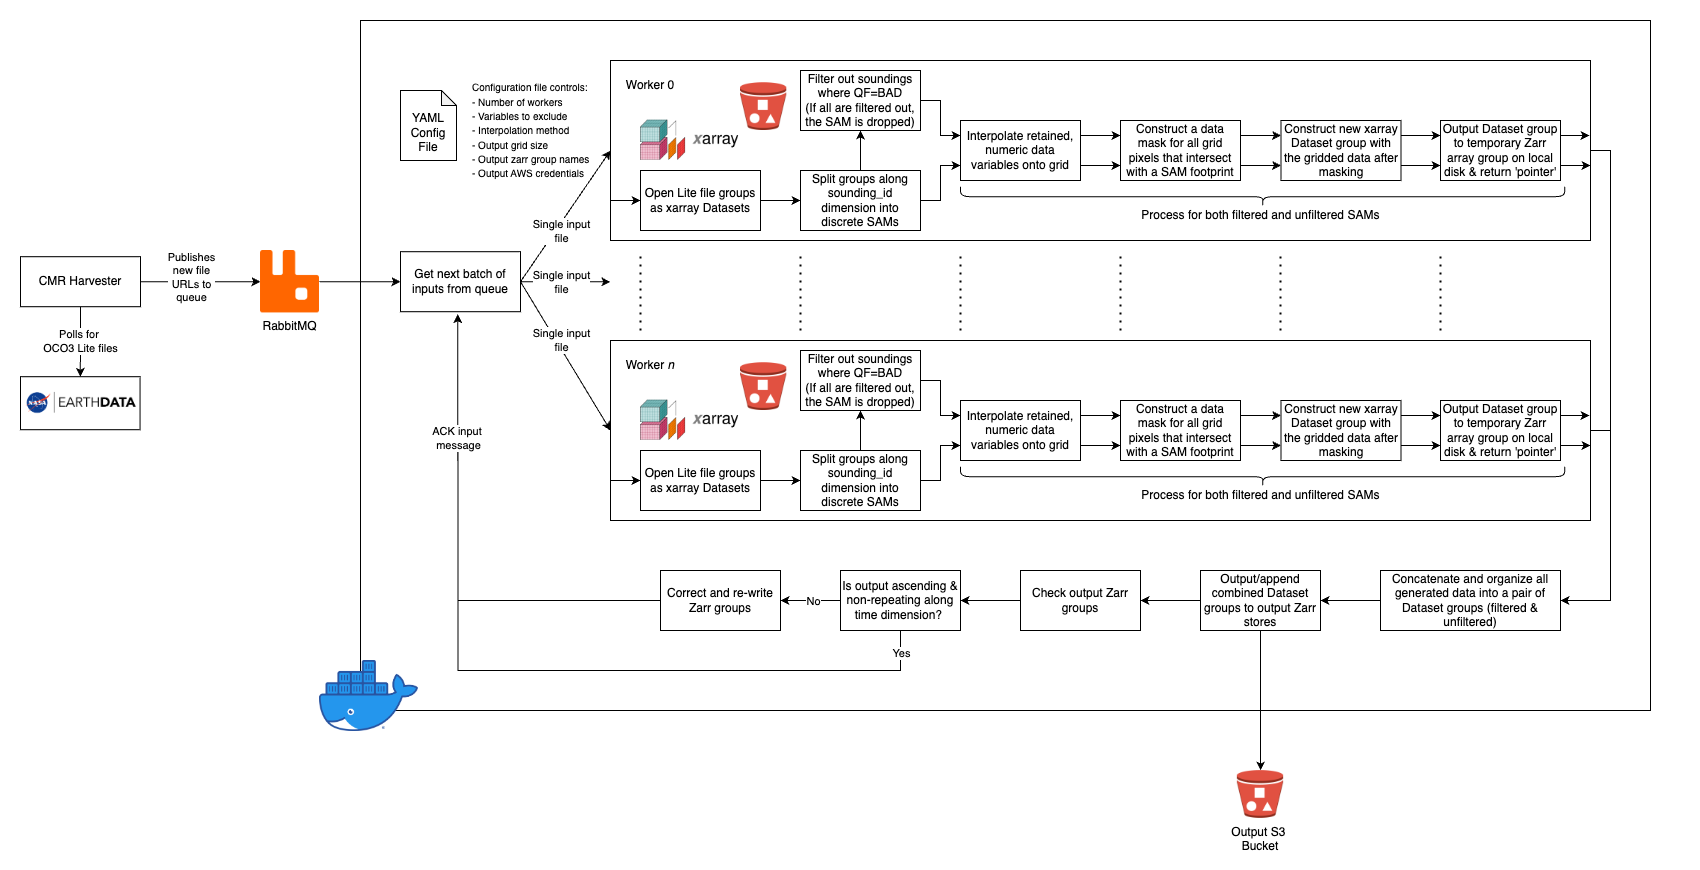
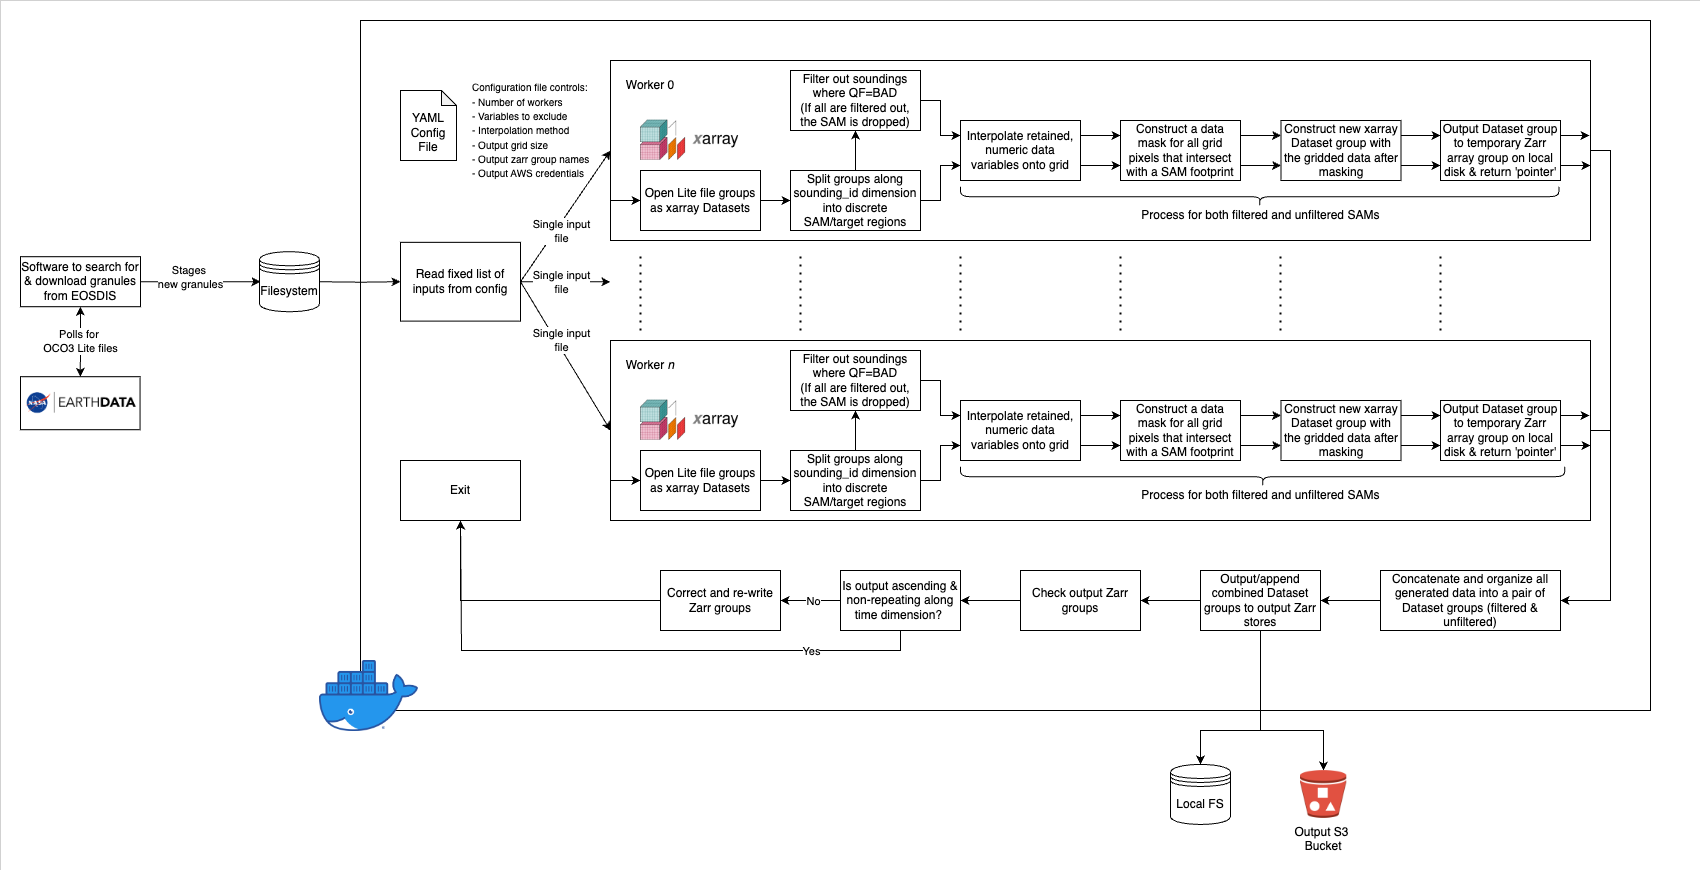
Updated docs

diff --git a/tools/deploy/README.md b/tools/deploy/README.md
@@ -16,7 +16,7 @@ files and [Lambda](https://aws.amazon.com/lambda/?nc2=h_ql_prod_cp_lbd) to proce
 triggered with an [EventBridge](https://aws.amazon.com/eventbridge/?nc2=h_ql_prod_ap_eb) schedule. Logs from the various components are aggregated into a [CloudWatch](https://aws.amazon.com/cloudwatch/?nc2=h_ql_prod_mg_cw) Log Group and
 Amazon [Simple Notification Service (SNS)](https://aws.amazon.com/sns/?nc2=h_ql_prod_ap_sns) is used to notify interested users in the event of a failure.
 
-The image used for the processing step should be tagged `>=2024.01.25` (convention is to start tags with the date of build), as that allows for detection of errors that occur during the critical phase of processing (final result write)
+The image used for the processing step should be tagged `>=2024.02.26` (convention is to start tags with the date of build), as that allows for detection of errors that occur during the critical phase of processing (final result write)
 and subsequent restoration of result data from a backup. This prevents corruption of output data should a failure occur here. 
 
 <p align="center">

diff --git a/README.md b/README.md
@@ -13,7 +13,7 @@ interest on a single overflight. This is called a Snapshot Area Map, or SAM, and
     Example SAM capture.
 </p>
 
-This software takes daily OCO-3 CO2 input, isolates SAM captures, and fits the data to a global, fixed grid for a level 3 output product.
+This software takes daily OCO-3 CO2 input, isolates SAM- and target-mode captures, and fits the data to a global, fixed grid for a level 3 output product.
 
 ### Source Data
 
@@ -50,7 +50,7 @@ Zarr support is being developed for analysis tools like [Apache SDAP](https://sd
 
 In parallel:
 1. Input NetCDF file is opened
-2. Data is filtered for SAM observations (`/Sounding/operation_mode == 4`)
+2. Data is filtered for SAM and Target observations (`/Sounding/operation_mode in {2,4}`)
 3. The following steps are run on the filtered data that both has and has not been filtered by the quality flag:
    1. Desired science variables are interpolated to fit to a fixed lat/lon grid
    2. Output gridded arrays are masked to only include pixels that intersect with the actual source SAM footprints
